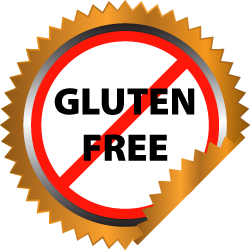
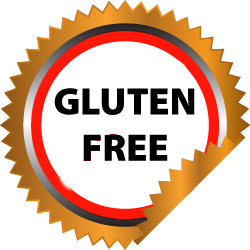
update the image for gluten free symbol and even out spacing for menu item

Changed region(s): [[0.224, 0.224, 0.756, 0.784]]

diff --git a/menu.html b/menu.html
@@ -28,6 +28,8 @@
                     CHOCOLATE BROWNIES
                     <br />
                     17” x 11.5” tray - $45.00
+                    <br />
+                    <br />
                 </td>
                 <td align="center" valign="center">
                     <img width="302px" height="301px" src="./img/3x3-cheesecake-with-strawberrys.jpg" alt="description here" />

diff --git a/css/index.css b/css/index.css
@@ -21,6 +21,9 @@ body {
     align-content: center;
     text-align: center;
     width: 100%;
+    clear: both;
+    display: block;
+    overflow: hidden;
 }
 
 .main-content{
